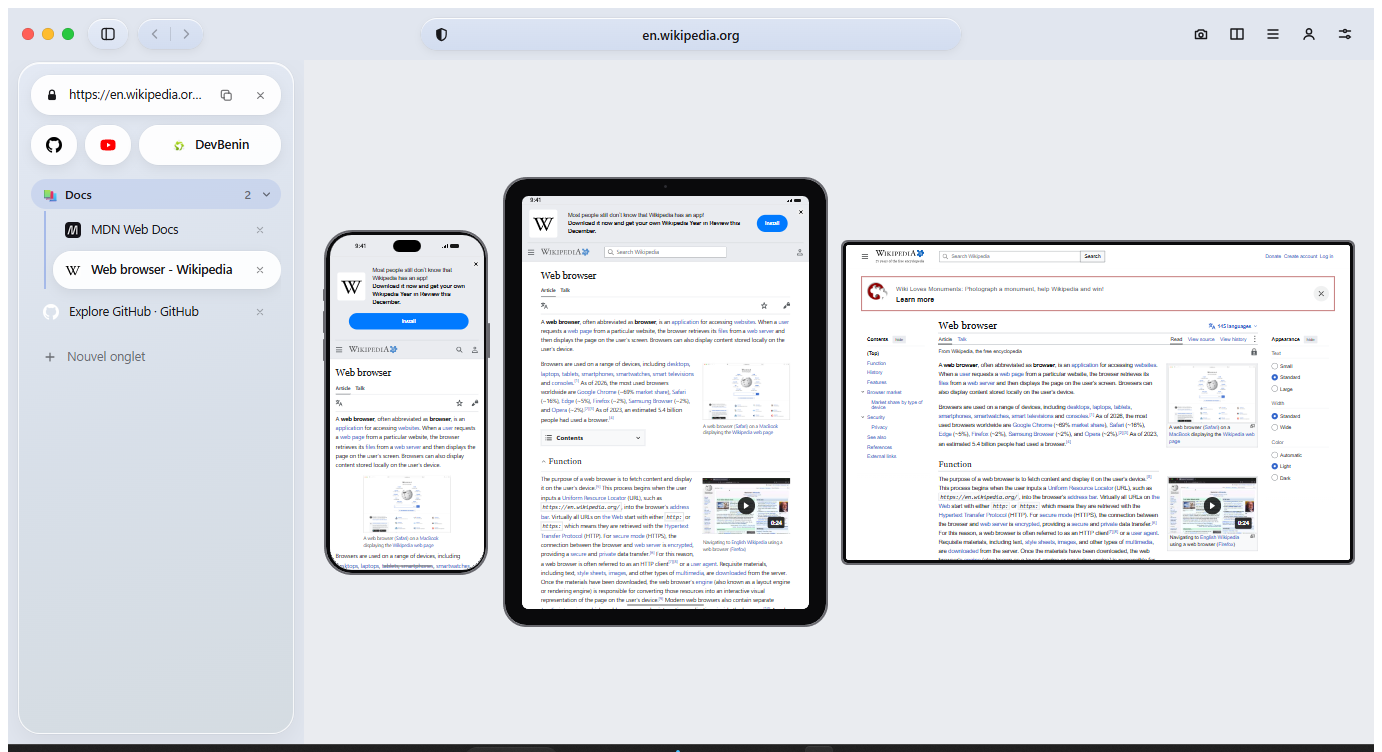
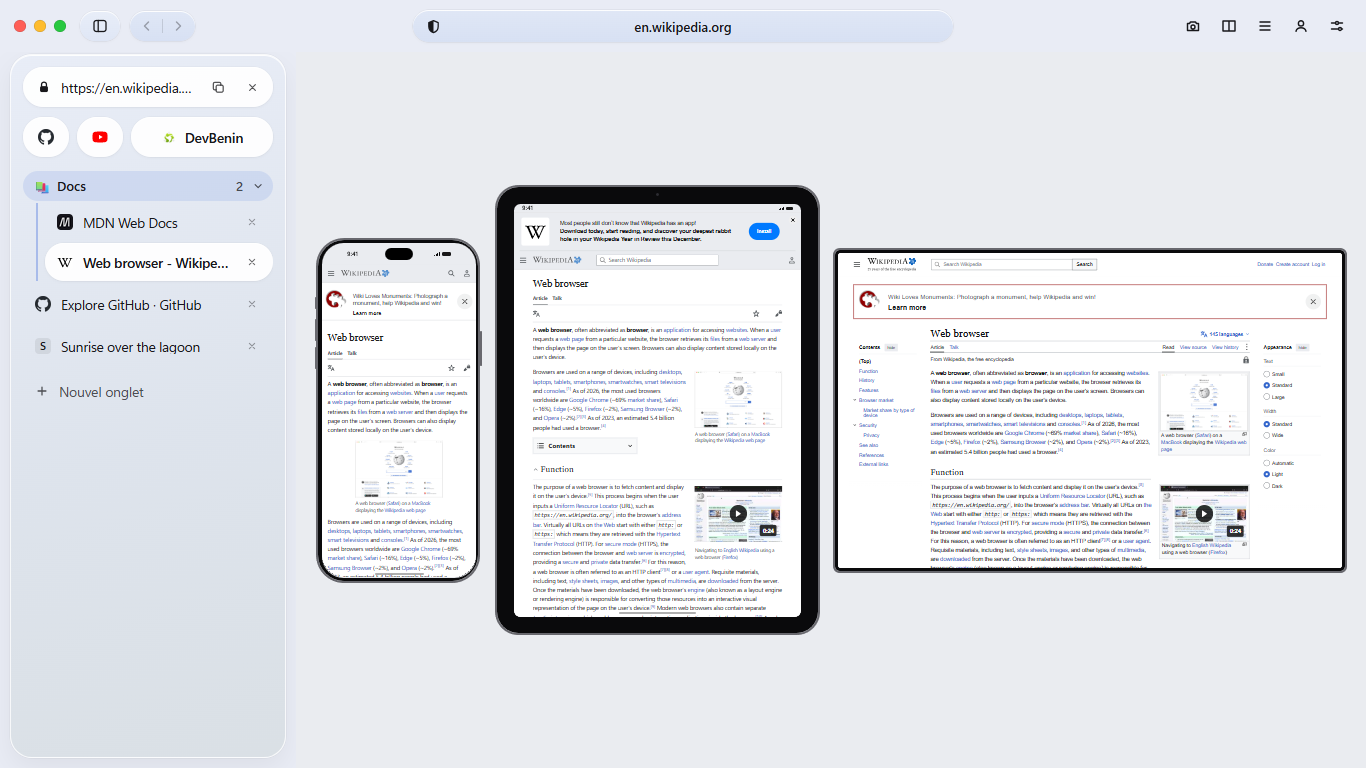
docs: screenshots retaken on the current version, for the README and the setup screen

diff --git a/README.fr.md b/README.fr.md
@@ -8,6 +8,8 @@
 
 ![Le navigateur affichant une page, la carte des onglets à gauche](docs/images/browser.png)
 
+![Le même navigateur en thème sombre](docs/images/browser-dark.png)
+
 > Un projet personnel, partagé tel quel. La version 0.1.0 est une première version.
 
 ## Ce qu'il fait

diff --git a/README.md b/README.md
@@ -8,6 +8,8 @@
 
 ![The browser showing a page, with the tab sidebar on the left](docs/images/browser.png)
 
+![The same browser in its dark theme](docs/images/browser-dark.png)
+
 > A personal project, shared as is. Version 0.1.0 is an early release.
 
 ## What it does
